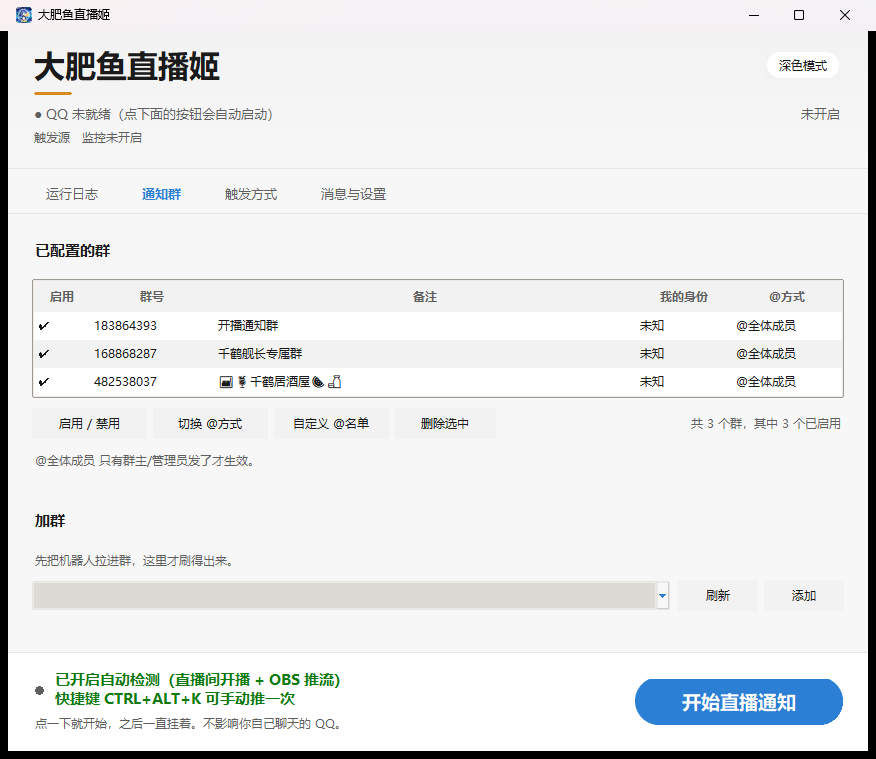
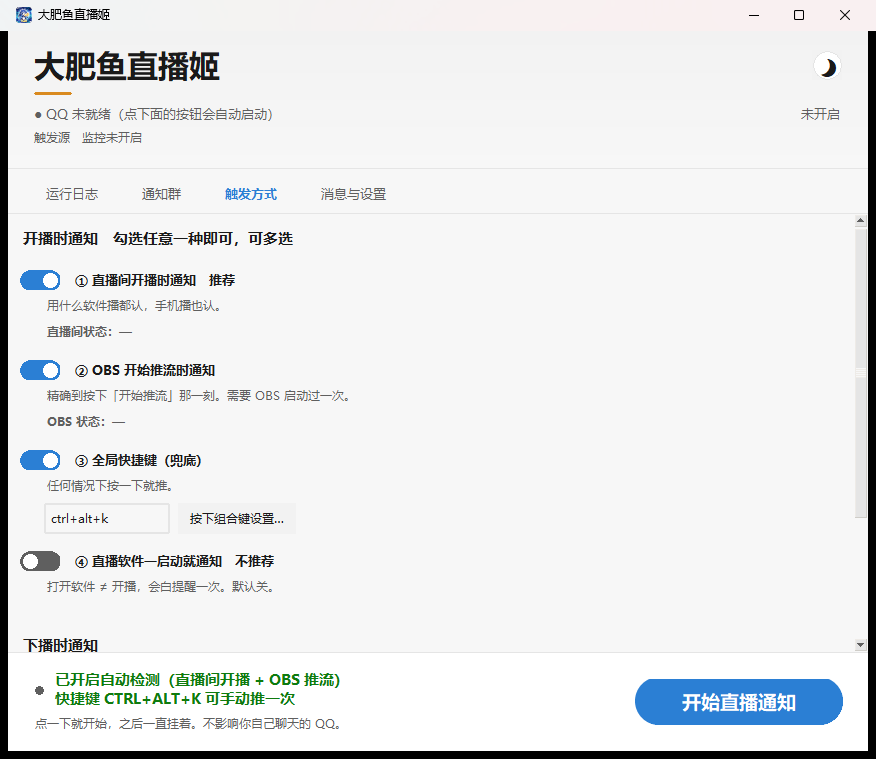
fix: 1.6.1 —— 主题开关改成圆形图标按钮（太阳 / 月亮）
原来是一枚写着「深色模式」的胶囊按钮 —— 占地方，而且那句话本身没什么信息量。

现在是 30px 的圆形按钮，里面一枚字形图标：
    浅色时显示月亮（点了变深色）
    深色时显示太阳（点了变浅色）
图标表示**点下去会变成什么**，这是开关类控件的通行做法。

## 字形是实测挑出来的，不是拍脑袋

Tk 8.6 对 emoji 的支持一直很差，所以把候选字形 × 候选字体全渲染出来比对了一遍：

    字体必须是 Segoe UI Symbol
        ☀ U+2600     实心太阳，正常
        🌙 U+1F319    月牙，粗细正好
    换成 Segoe UI Emoji 就废了：☀ 变成一个空心圆圈，🌞 变成一个笑脸

之前 `☾` 显示成怪模怪样的 C，不是字形的问题，是 9pt 太小、月牙糊成一团。

diff --git a/gui.py b/gui.py
@@ -1004,6 +1004,65 @@ class Spring:
         step()
 
 
+class ThemeToggle(tk.Canvas):
+    """圆形的深浅色开关，图标用**字形**。
+
+    实测过一轮（把候选字形 × 候选字体全渲染出来比对），结论：
+
+        字体必须是 **Segoe UI Symbol**
+            ☀ U+2600     实心太阳，正常
+            🌙 U+1F319    月牙，粗细正好
+        换成 Segoe UI Emoji 就废了：☀ 变成一个空心圆圈，🌞 变成一个笑脸。
+
+    之前 `☾` 显示成怪模怪样的 C，不是字形的问题，是**9pt 太小**，月牙糊成一团。
+
+    图标语义按**点下去会变成什么**来放 —— 开关类控件的通行做法：
+        当前浅色 → 显示月亮（点了变深色）
+        当前深色 → 显示太阳（点了变浅色）
+    """
+
+    D = 30                      # 直径（同时也是点击热区）
+    GLYPH_FONT = "Segoe UI Symbol"
+
+    def __init__(self, parent, command, background=None, dark=False):
+        bg = background or BG
+        super().__init__(parent, width=self.D, height=self.D, background=bg,
+                         highlightthickness=0, bd=0, cursor="hand2")
+        self.command = command
+        self._dark = dark
+        self._hover = False
+        self._face = SURFACE
+        self._ink = TEXT
+        self._label = None
+        self.bind("<Button-1>", lambda e: self.command())
+        self.bind("<Enter>", lambda e: self._hover_set(True))
+        self.bind("<Leave>", lambda e: self._hover_set(False))
+        self._draw()
+
+    def _hover_set(self, on):
+        self._hover = on
+        self._draw()
+
+    def set_dark(self, dark):
+        if dark != self._dark:
+            self._dark = dark
+            self._draw()
+
+    def _draw(self):
+        self.delete("all")
+        self._face = PRIMARY_S if self._hover else SURFACE
+        self._ink = PRIMARY if self._hover else TEXT
+        self.create_oval(1, 1, self.D - 1, self.D - 1, fill=self._face,
+                         outline=BORDER, width=1)
+        self._label = self.create_text(
+            self.D / 2.0, self.D / 2.0 + 1,
+            text="\u2600" if self._dark else "\U0001f319",
+            fill=self._ink, font=(self.GLYPH_FONT, 15))
+
+    def dispose(self):
+        pass
+
+
 class Animator:
     """按 Fluent 的时长和缓动驱动一个逐帧回调。
 
@@ -1408,12 +1467,12 @@ class App:
         self.head.create_line(0, h - 1, w, h - 1, fill=BORDER, tags="hair")
         # 右上角两行要跟着窗口宽度走
         # 按钮右边缘跟内容右边界对齐；状态文字右边缘排在按钮左侧留 16px
-        self.head.coords(self._theme_win, w - 28, 34)
+        self.head.coords(self._theme_win, w - 26, 34)
         self.head.coords(self.lbl_state.item, w - 28, 82)
         # 可能换行的文字限制宽度，否则会顶出画布
         for lbl in (self.lbl_sources, self.lbl_alert):
             self.head.itemconfig(lbl.item, width=w - 52)
-        self.btn_theme.config(text="浅色模式" if THEME == "dark" else "深色模式")
+        self.btn_theme.set_dark(THEME == "dark")
 
     def _build_ui(self):
         self._setup_style()
@@ -1457,17 +1516,11 @@ class App:
         #     文字往里推，于是「浅色」比下一行的「未开启」缩进了 8px —— 看着
         #     就是没对齐。加了边框之后，按钮的**右边缘**跟「未开启」的右边缘
         #     对齐；同时也一眼看得出这是个能点的按钮，而不是一行说明文字。
-        # 用胶囊按钮而不是描边方块：界面别处全圆角了，它是方的就格格不入。
-        # 另外文字里**不要放 ☾ / ☀ 这类符号** —— 微软雅黑下那个月亮渲染成了
-        # 一个怪模怪样的 C，看着像坏了。就用纯文字。
-        self.btn_theme = RoundedButton(
-            self.head, text="", command=self.toggle_theme,
-            font_spec=(FONT, 9), height=28, radius=14, width=74,
-            # background 必须是**它实际坐着的那个面**（头部是 SUNKEN），
-            # 不是它自己的填充色 —— 抗锯齿的圆角是拿这个颜色去混的，
-            # 传错了就会白混白，圆角直接看不出来。
-            fill=SURFACE, fill_active=PRIMARY_S, background=SUNKEN,
-            text_fill=TEXT)
+        # 圆形图标按钮。图标是画出来的，不用字体符号（☾ 在微软雅黑下渲染成
+        # 了一个怪模怪样的 C，emoji 又不受控）。
+        self.btn_theme = ThemeToggle(
+            self.head, command=self.toggle_theme,
+            background=SUNKEN, dark=(THEME == "dark"))
         self._theme_win = self.head.create_window(0, 34, anchor="e",
                                                   window=self.btn_theme)
 

diff --git a/live_notify.py b/live_notify.py
@@ -50,7 +50,7 @@ except ImportError:                # 缺文件时通知里就不带游戏名
 
 APP_NAME = "dafeiyu-live-notify"        # 技术标识：控制端口、日志、JSON 字段用
 DISPLAY_NAME = "大肥鱼直播姬"             # 界面与文档里显示的名字
-VERSION = "1.6.0"
+VERSION = "1.6.1"
 
 def _resolve_base_dir():
     """确定**数据目录**（config.json / logs / napcat 所在处）。
